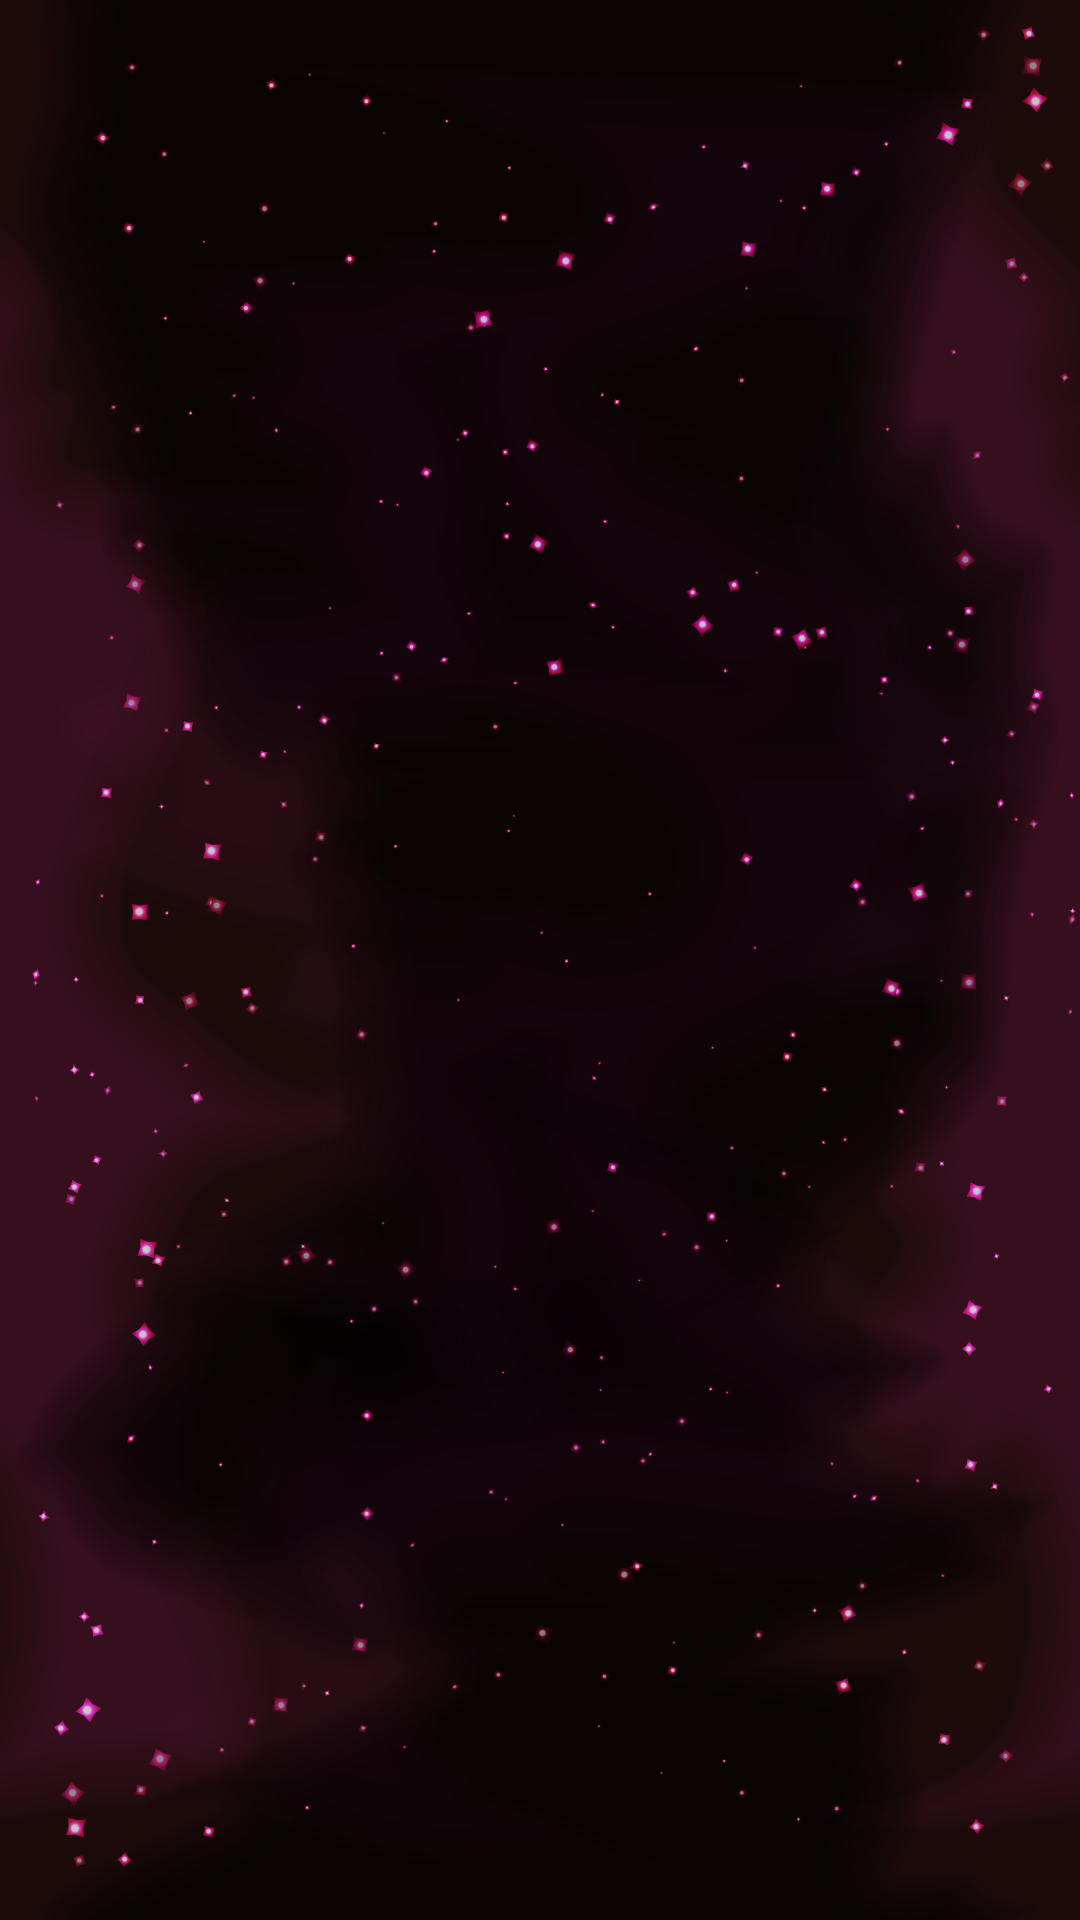
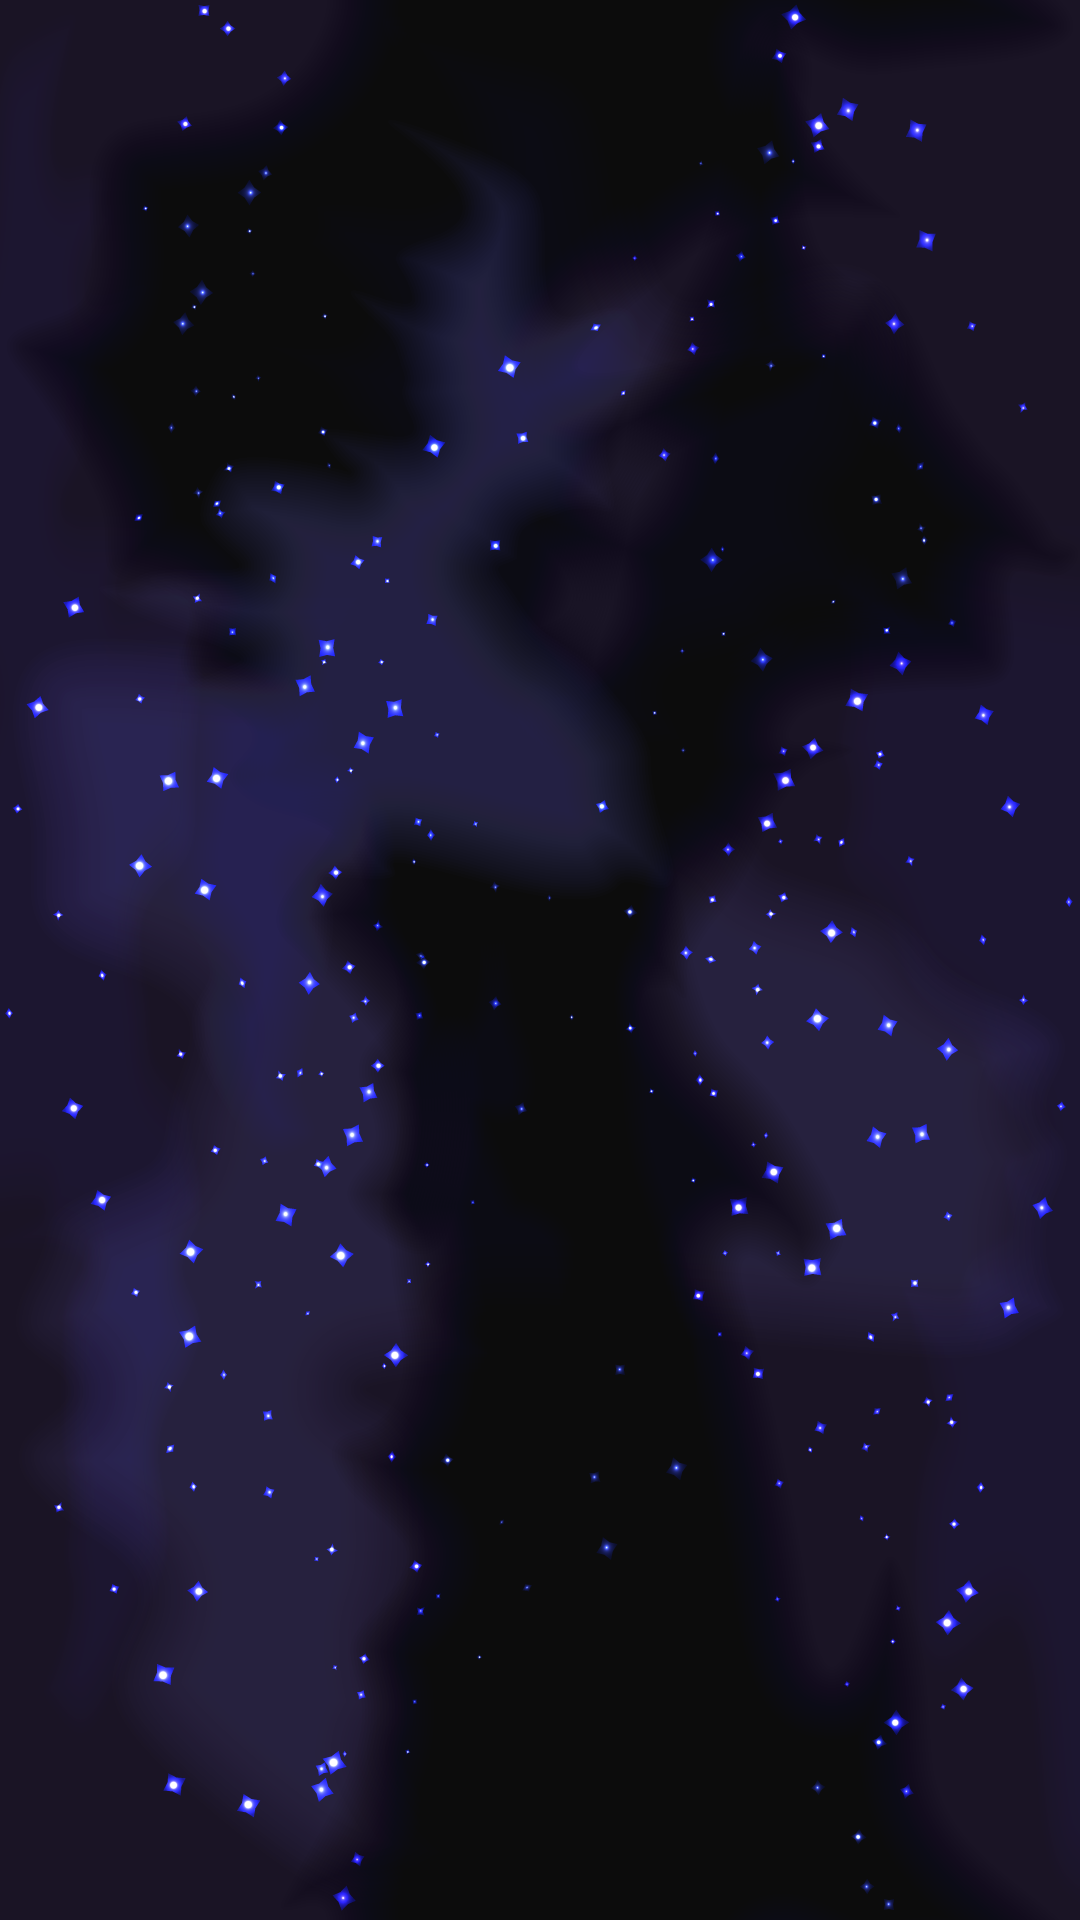
Me quedó mamadísimo el background

diff --git a/src/videogame/Game.java b/src/videogame/Game.java
@@ -27,6 +27,12 @@ public class Game implements Runnable {
     private List<Alien> aliens;             // to store aliens
     private int aliensDirection;            // to store the alien direction
 
+    // BG Variables
+    private int BGPosition;
+    private int MeteorsPosition;
+    private int PlanetsPosition;
+    private int StarsPosition;
+
     /**
      * to create title, width and height and set the game is still not running
      *
@@ -41,6 +47,12 @@ public class Game implements Runnable {
         running = false;
         keyManager = new KeyManager();
         aliensDirection = 1;
+
+        // BG
+        BGPosition = Commons.WINDOW_HEIGHT - Commons.BACKGROUND_HEIGHT;
+        MeteorsPosition = Commons.WINDOW_HEIGHT - Commons.BACKGROUND_HEIGHT;
+        PlanetsPosition = Commons.WINDOW_HEIGHT - Commons.BACKGROUND_HEIGHT;
+        StarsPosition = Commons.WINDOW_HEIGHT - Commons.BACKGROUND_HEIGHT;
     }
 
     /**
@@ -66,7 +78,7 @@ public class Game implements Runnable {
 
         for (int i = 0; i < 4; i++) {
             for (int j = 0; j < 6; j++) {
-                Alien alien = new Alien(Commons.ALIEN_INIT_X + Commons.ALIEN_WIDTH * j, Commons.ALIEN_INIT_Y + Commons.ALIEN_HEIGHT * i, Commons.ALIEN_WIDTH, Commons.ALIEN_HEIGHT);
+                Alien alien = new Alien(Commons.ALIEN_INIT_X + ((Commons.ALIEN_WIDTH + Commons.ALIEN_PADDING) * j), Commons.ALIEN_INIT_Y + ((Commons.ALIEN_HEIGHT + Commons.ALIEN_PADDING) * i), Commons.ALIEN_WIDTH, Commons.ALIEN_HEIGHT);
                 aliens.add(alien);
             }
         }
@@ -75,10 +87,8 @@ public class Game implements Runnable {
     @Override
     public void run() {
         init();
-        // frames per second
-        int fps = 50;
         // time for each tick in nano seconds
-        double timeTick = Commons.FPS / fps;
+        double timeTick = 1000000000 / Commons.FPS;
         // initializing delta
         double delta = 0;
         // define now to use inside the loop
@@ -104,13 +114,17 @@ public class Game implements Runnable {
 
     private void tick() {
         player.tick();
+        int initialDirection = aliensDirection;
+        // Check if any alien reach borders
         for (Alien alien : aliens) {
             if (alien.getX() <= Commons.BORDER_LEFT || alien.getX() >= Commons.WINDOW_WIDTH - Commons.BORDER_RIGHT) {
                 aliensDirection *= -1;
                 break;
             }
         }
+
         for (Alien alien : aliens) {
+            if (aliensDirection != initialDirection) alien.setY(alien.getY() + 10);
             alien.act(aliensDirection);
         }
         keyManager.tick();
@@ -131,10 +145,29 @@ public class Game implements Runnable {
             g = bs.getDrawGraphics();
 
             // Background
-            g.drawImage(Assets.BG, 0, 0, width, height, null);
-            g.drawImage(Assets.Meteors, 0, 0, width, height, null);
-            g.drawImage(Assets.Planets, 0, 0, width, height, null);
-            g.drawImage(Assets.Stars, 0, 0, width, height, null);
+            BGPosition += 5;
+            StarsPosition += 4;
+            PlanetsPosition += 3;
+            MeteorsPosition += 2;
+
+
+            g.drawImage(Assets.BG, 0, BGPosition, Commons.BACKGROUND_WIDTH, Commons.BACKGROUND_HEIGHT, null);
+            g.drawImage(Assets.BG, 0, BGPosition - Commons.BACKGROUND_HEIGHT, Commons.BACKGROUND_WIDTH, Commons.BACKGROUND_HEIGHT, null);
+
+            g.drawImage(Assets.Stars, 0, StarsPosition, Commons.BACKGROUND_WIDTH, Commons.BACKGROUND_HEIGHT, null);
+            g.drawImage(Assets.Stars, 0, StarsPosition - Commons.BACKGROUND_HEIGHT, Commons.BACKGROUND_WIDTH, Commons.BACKGROUND_HEIGHT, null);
+
+            g.drawImage(Assets.Planets, 0, PlanetsPosition, Commons.BACKGROUND_WIDTH, Commons.BACKGROUND_HEIGHT, null);
+            g.drawImage(Assets.Planets, 0, PlanetsPosition - Commons.BACKGROUND_HEIGHT, Commons.BACKGROUND_WIDTH, Commons.BACKGROUND_HEIGHT, null);
+
+            g.drawImage(Assets.Meteors, 0, MeteorsPosition, Commons.BACKGROUND_WIDTH, Commons.BACKGROUND_HEIGHT, null);
+            g.drawImage(Assets.Meteors, 0, MeteorsPosition - Commons.BACKGROUND_HEIGHT, Commons.BACKGROUND_WIDTH, Commons.BACKGROUND_HEIGHT, null);
+
+
+            if(BGPosition > Commons.WINDOW_HEIGHT) BGPosition -= Commons.BACKGROUND_HEIGHT;
+            if(MeteorsPosition > Commons.WINDOW_HEIGHT) MeteorsPosition -= Commons.BACKGROUND_HEIGHT;
+            if(PlanetsPosition > Commons.WINDOW_HEIGHT) PlanetsPosition -= Commons.BACKGROUND_HEIGHT;
+            if(StarsPosition > Commons.WINDOW_HEIGHT) StarsPosition -= Commons.BACKGROUND_HEIGHT;
 
             // Player
             player.render(g);

diff --git a/src/videogame/SpaceShip.java b/src/videogame/SpaceShip.java
@@ -10,7 +10,7 @@ import java.awt.*;
 import java.awt.event.KeyEvent;
 
 public class SpaceShip extends Item {
-    private int dx;
+    private int speed;
     private Animation animation;
     private Game game;
 
@@ -25,7 +25,7 @@ public class SpaceShip extends Item {
     public SpaceShip(int x, int y, int width, int height, Game game) {
         super(x, y, width, height);
 
-        dx = 2;
+        speed = 5;
         this.game = game;
         animation = new Animation(Assets.player, 100);
     }
@@ -33,11 +33,11 @@ public class SpaceShip extends Item {
     public void tick() {
         animation.tick();
         if (game.getKeyManager().RIGHT) {
-            setX(getX() + dx);
+            setX(getX() + speed);
         }
 
         if (game.getKeyManager().LEFT) {
-            setX(getX() - dx);
+            setX(getX() - speed);
         }
 
         if (getX() <= Commons.BORDER_LEFT) {

diff --git a/src/videogame/Commons.java b/src/videogame/Commons.java
@@ -13,19 +13,24 @@ package videogame;
 public interface Commons {
     // Game
     int FPS = 50;
-    int WINDOW_WIDTH = 468;
-    int WINDOW_HEIGHT = 832;
-    int BORDER_RIGHT = 60;
+    int WINDOW_WIDTH = 1080;
+    int WINDOW_HEIGHT = 675;
+    int BORDER_RIGHT = 65;
     int BORDER_LEFT = 5;
-    int GROUND = 820;
+    int GROUND = 665;
 
     // Player
     int PLAYER_WIDTH = 60;
     int PLAYER_HEIGHT = 60;
 
     // Alien
-    int ALIEN_HEIGHT = 30;
-    int ALIEN_WIDTH = 30;
+    int ALIEN_HEIGHT = 60;
+    int ALIEN_WIDTH = 60;
     int ALIEN_INIT_X = 150;
     int ALIEN_INIT_Y = 5;
+    int ALIEN_PADDING = 5;
+
+    // Background
+    int BACKGROUND_HEIGHT = 1920;
+    int BACKGROUND_WIDTH = 1080;
 }

diff --git a/src/videogame/Alien.java b/src/videogame/Alien.java
@@ -4,6 +4,7 @@ import java.awt.*;
 
 public class Alien extends Item {
     private Animation animation;
+    private int speed;
 
     /**
      * Set the initial values to create the item
@@ -15,12 +16,13 @@ public class Alien extends Item {
      */
     public Alien(int x, int y, int width, int height) {
         super(x, y, width, height);
+        speed = 5;
         animation = new Animation(Assets.alien, 100);
     }
 
     public void act(int direction) {
         animation.tick();
-        x += direction;
+        x += direction * speed;
     }
 
     @Override
